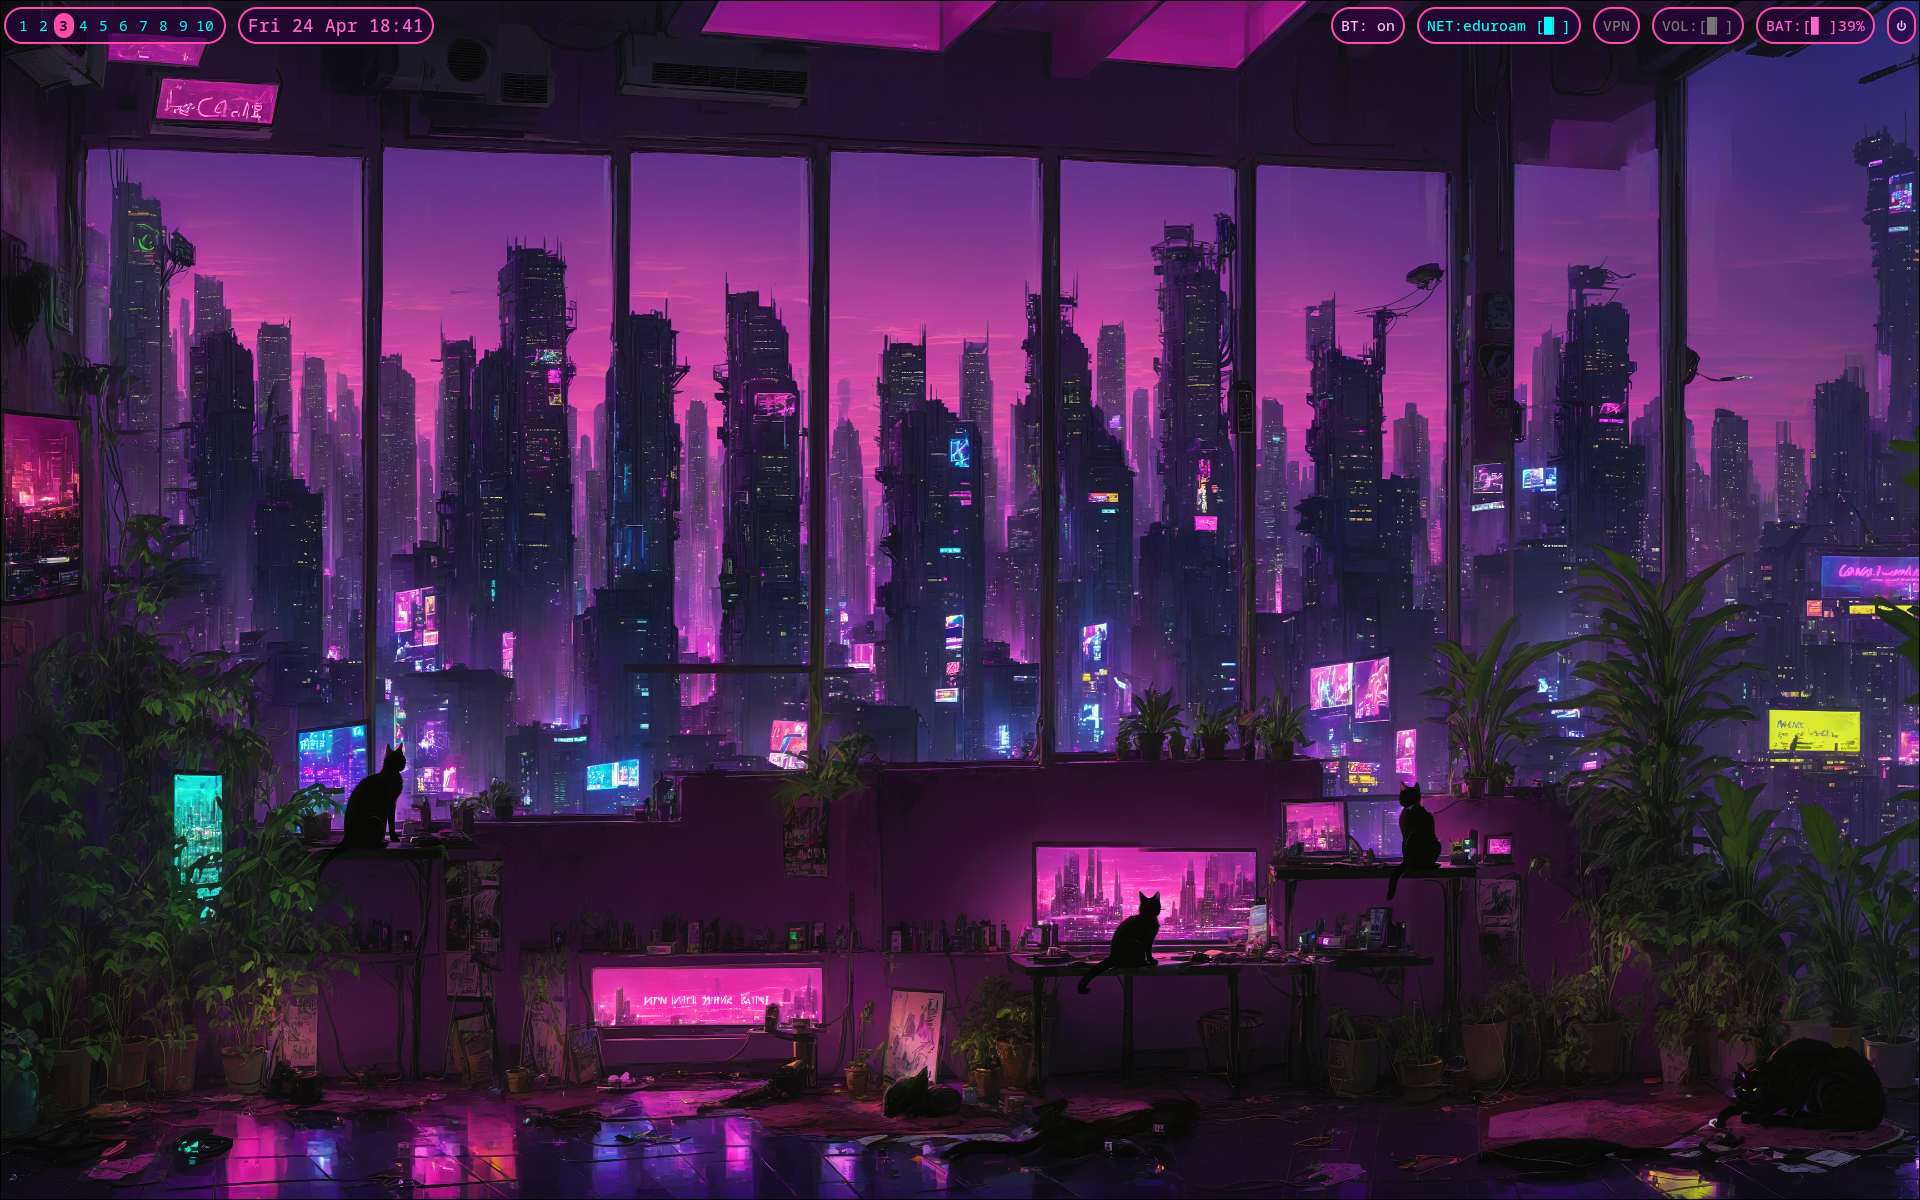
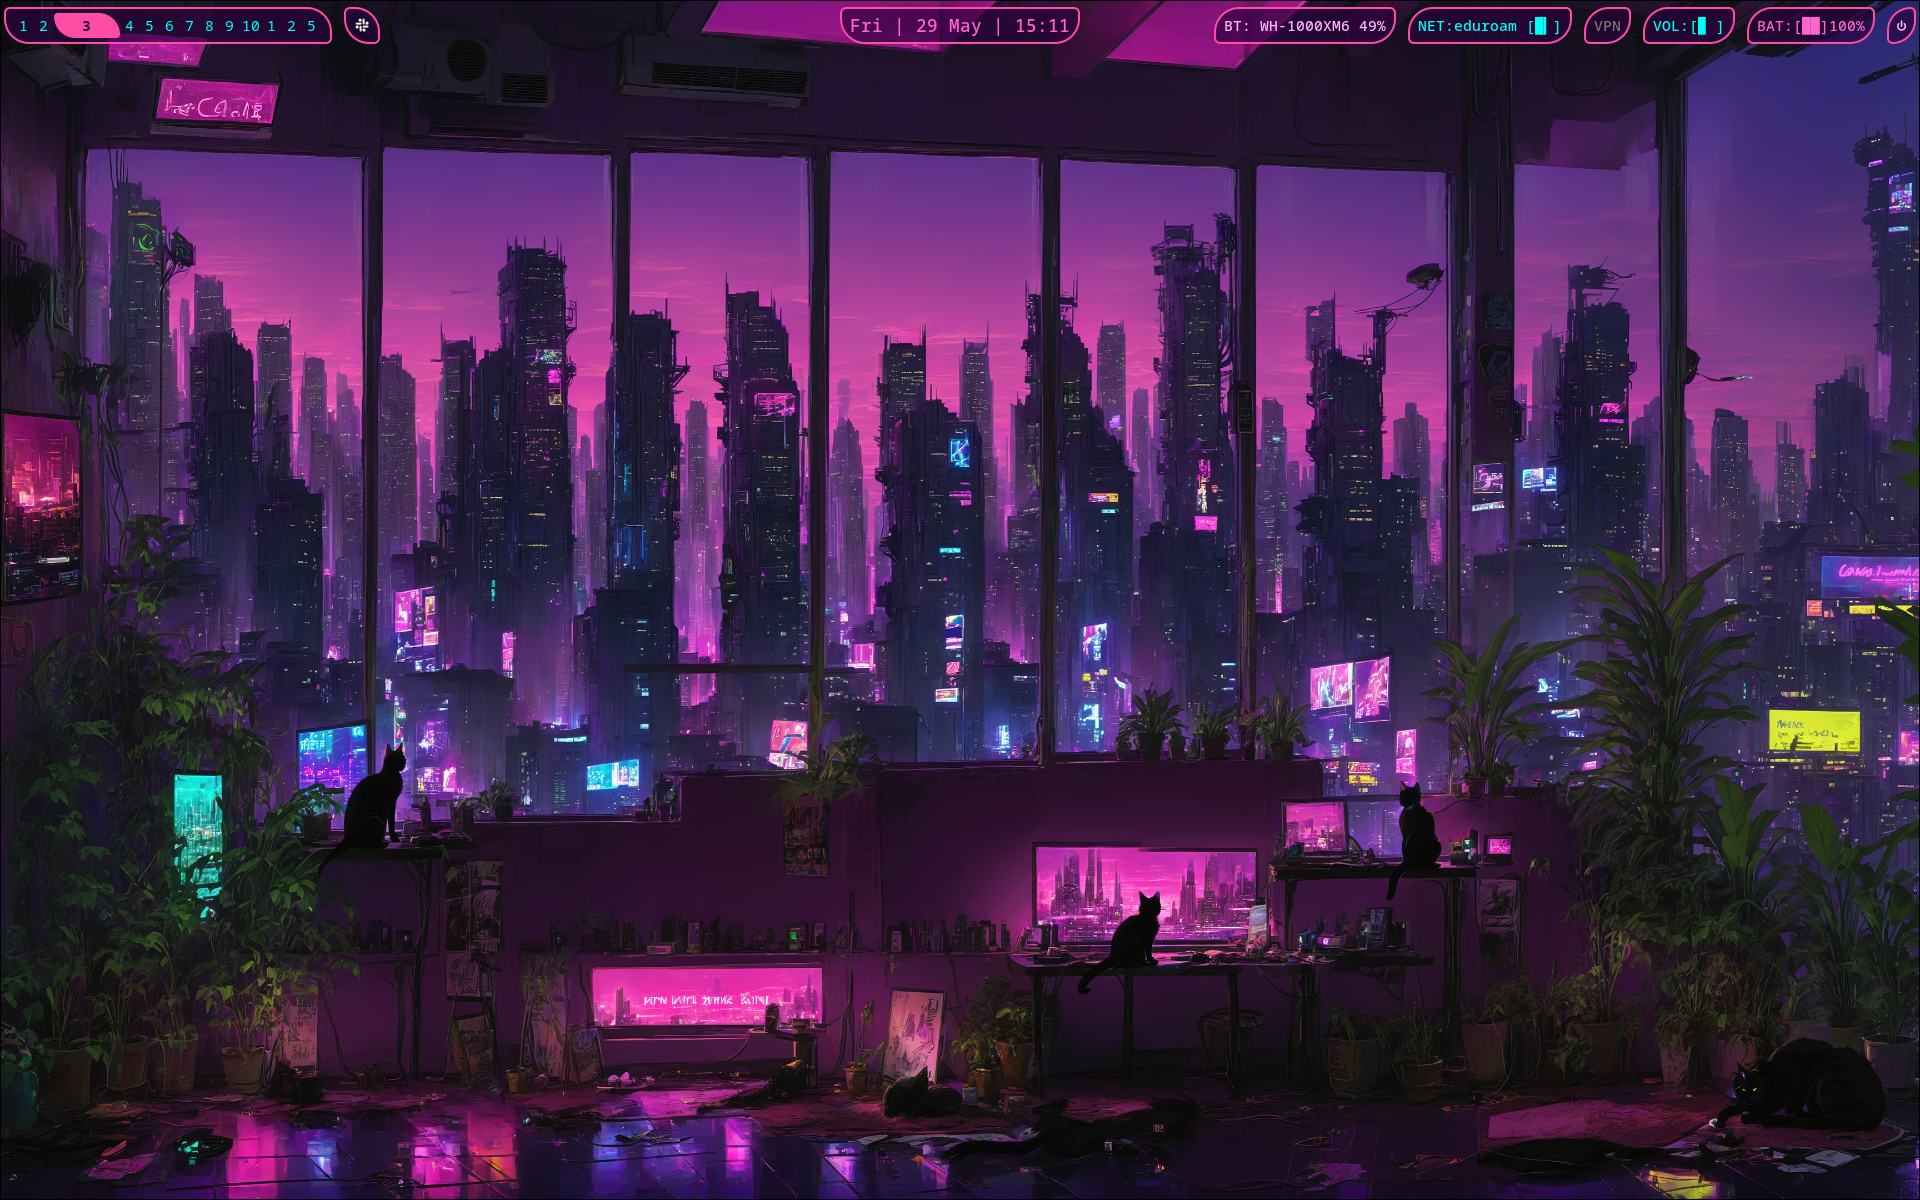
Updated README and showcase

Changed region(s): [[0.625, 0.0, 1.0, 0.0617], [0.0, 0.0, 0.2188, 0.0308], [0.4375, 0.0, 0.5625, 0.0617]]

diff --git a/README.md b/README.md
@@ -9,15 +9,15 @@ I've opted for two themes. I'm a big sucker for neon and purple, so one theme is
 
 ### Mono
 
-| Bare | btop · fastfetch · terminal · rofi |
+| Bare | btop · fastfetch · cava |
 |:---:|:---:|
-| ![](./assets/mono_bare.png) | ![](./assets/mono_btop_fastfetch_term_rofi.png) |
+| ![](./assets/mono_bare.png) | ![](./assets/mono_fastfetch_btop_cava.png.png) |
 
 ### Neon
 
-| Bare | btop · fastfetch · terminal · rofi |
+| Bare | btop · fastfetch · cava |
 |:---:|:---:|
-| ![](./assets/neon_bare.png) | ![](./assets/neon_btop_fastfetch_term_rofi.png) |
+| ![](./assets/neon_bare.png) | ![](./assets/neon_fastfetch_btop_cava.png.png) |
 
 
 ## Programs
@@ -45,14 +45,12 @@ Each theme directory contains an app per subdirectory (e.g. `theme-mono/nvim/`, 
 
 To stow everything:
 ```
-stow -d theme-mono -t ~ bash btop colors dunst gtk hypr kitty nvim rofi waybar
-stow -d theme-neon -t ~ bash btop colors dunst gtk hypr kitty nvim rofi waybar
+stow -d theme-<theme> -t ~ bash btop cava colors dunst fastfetch gtk hypr kitty nvim rofi waybar
 ```
 
 Or just pick what you want:
 ```
-stow -d theme-mono -t ~ nvim btop bash
-stow -d theme-neon -t ~ nvim btop bash
+stow -d theme-<theme> -t ~ nvim btop bash
 ```
 
 The [switch-theme](./switch-theme.sh) script handles unstowing the old theme, stowing the new one, and restarting relevant processes (waybar, dunst, hyprpaper, kitty). It also accepts an optional app list:
@@ -63,4 +61,6 @@ The [switch-theme](./switch-theme.sh) script handles unstowing the old theme, st
 
 ## Todos
 - [x] Have apps as atomic building block
+- [ ] Make Wi-Fi, VPN, Bluetooth menus more appealing
+- [ ] Make rofi in general more appealing
 - [ ] Let me know? 